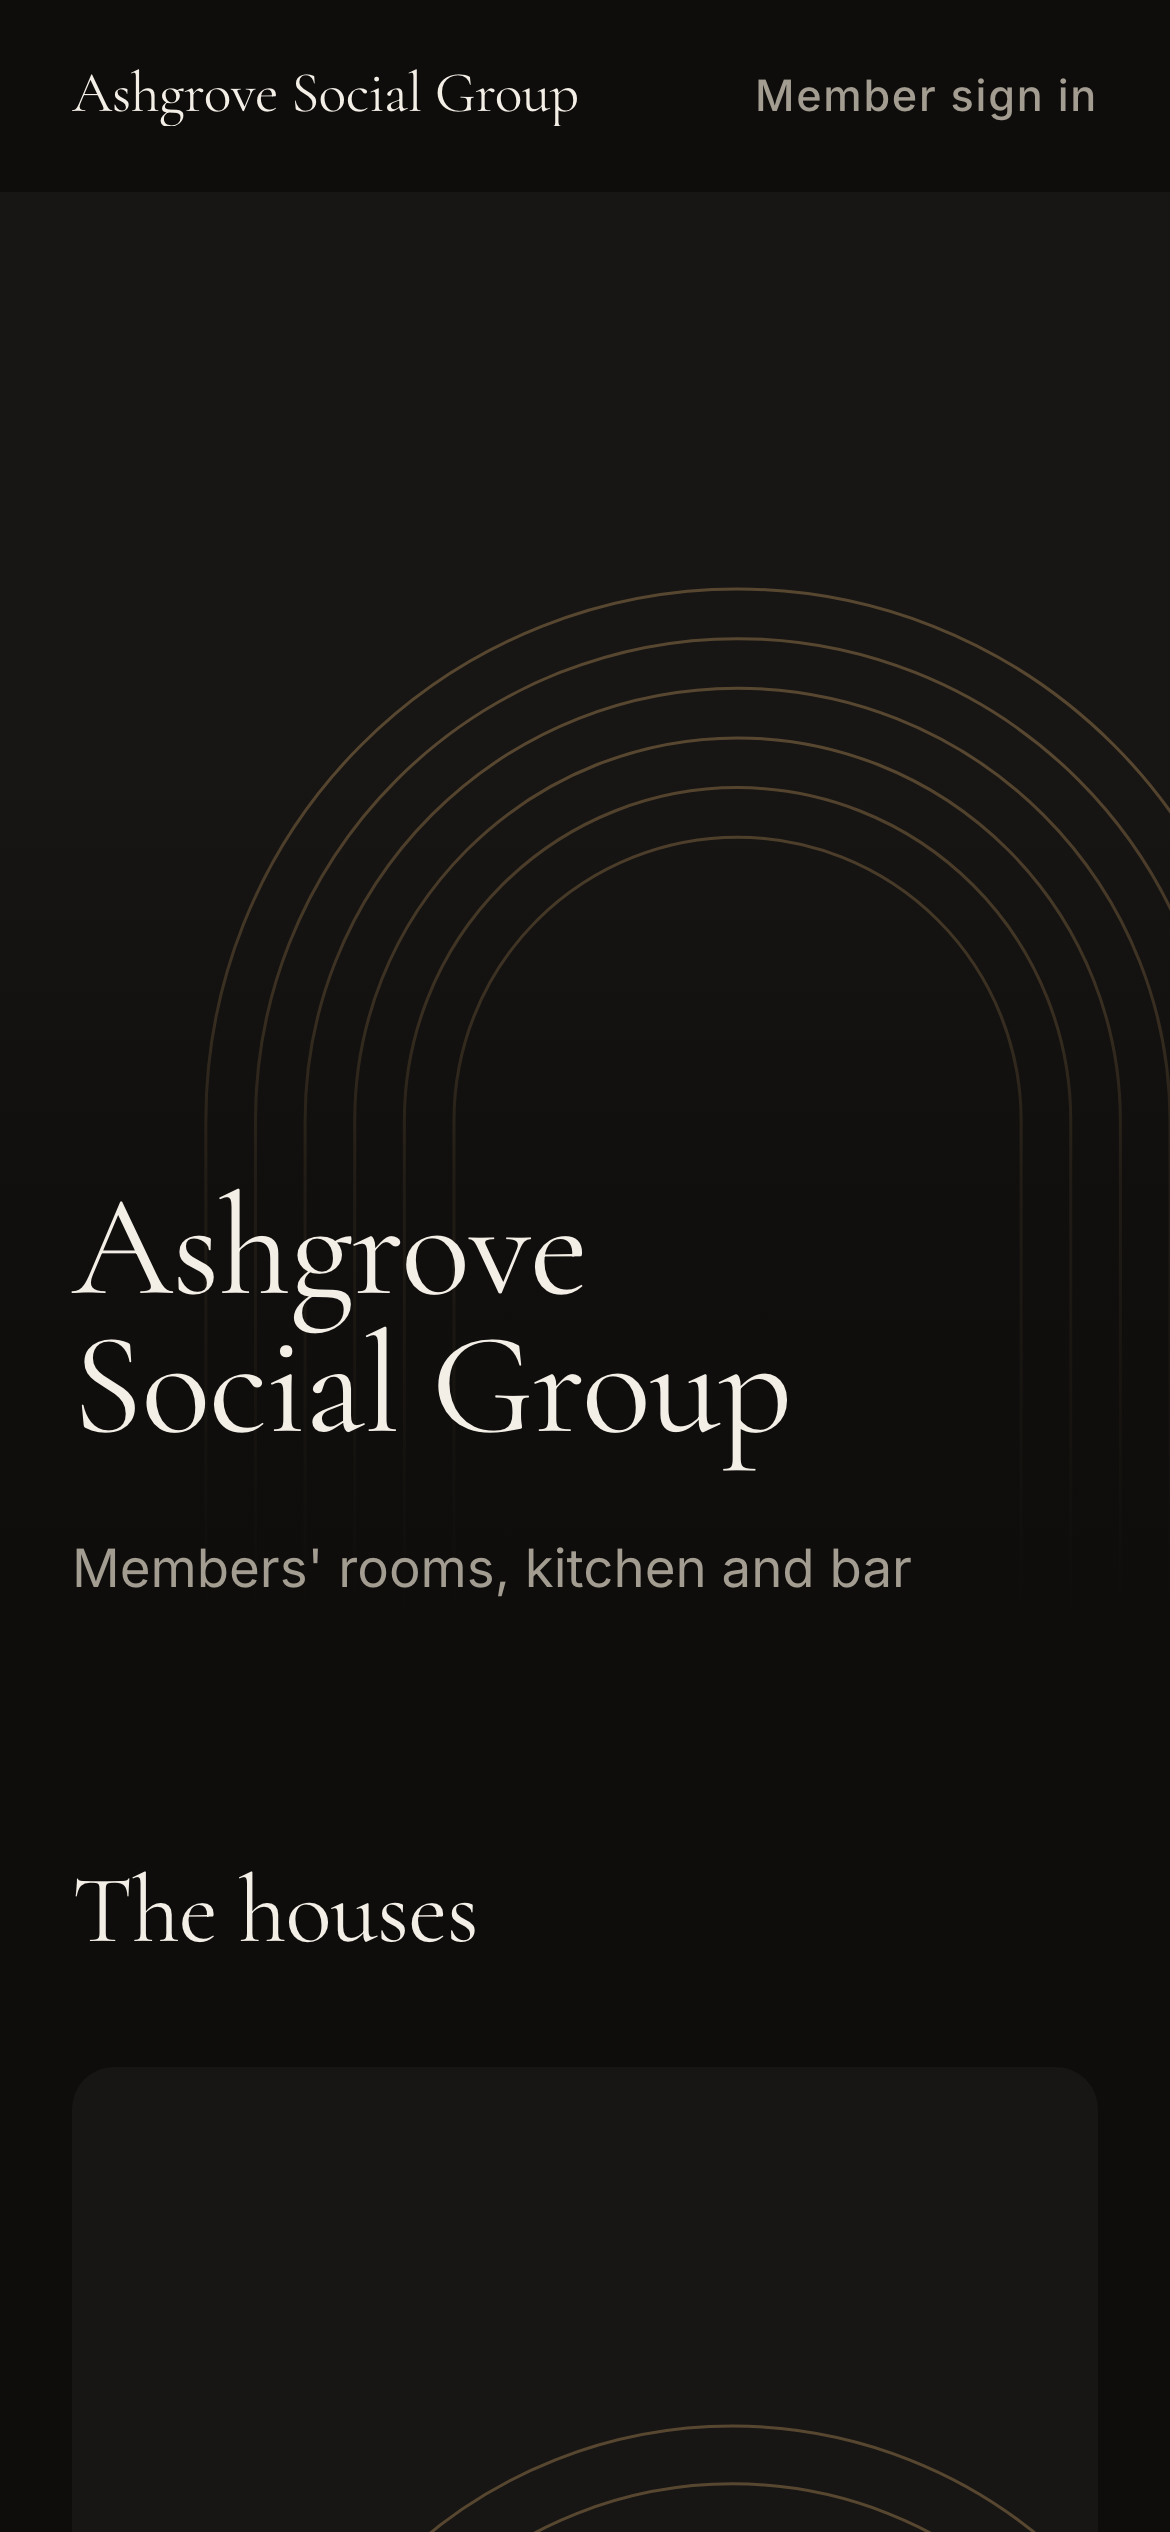
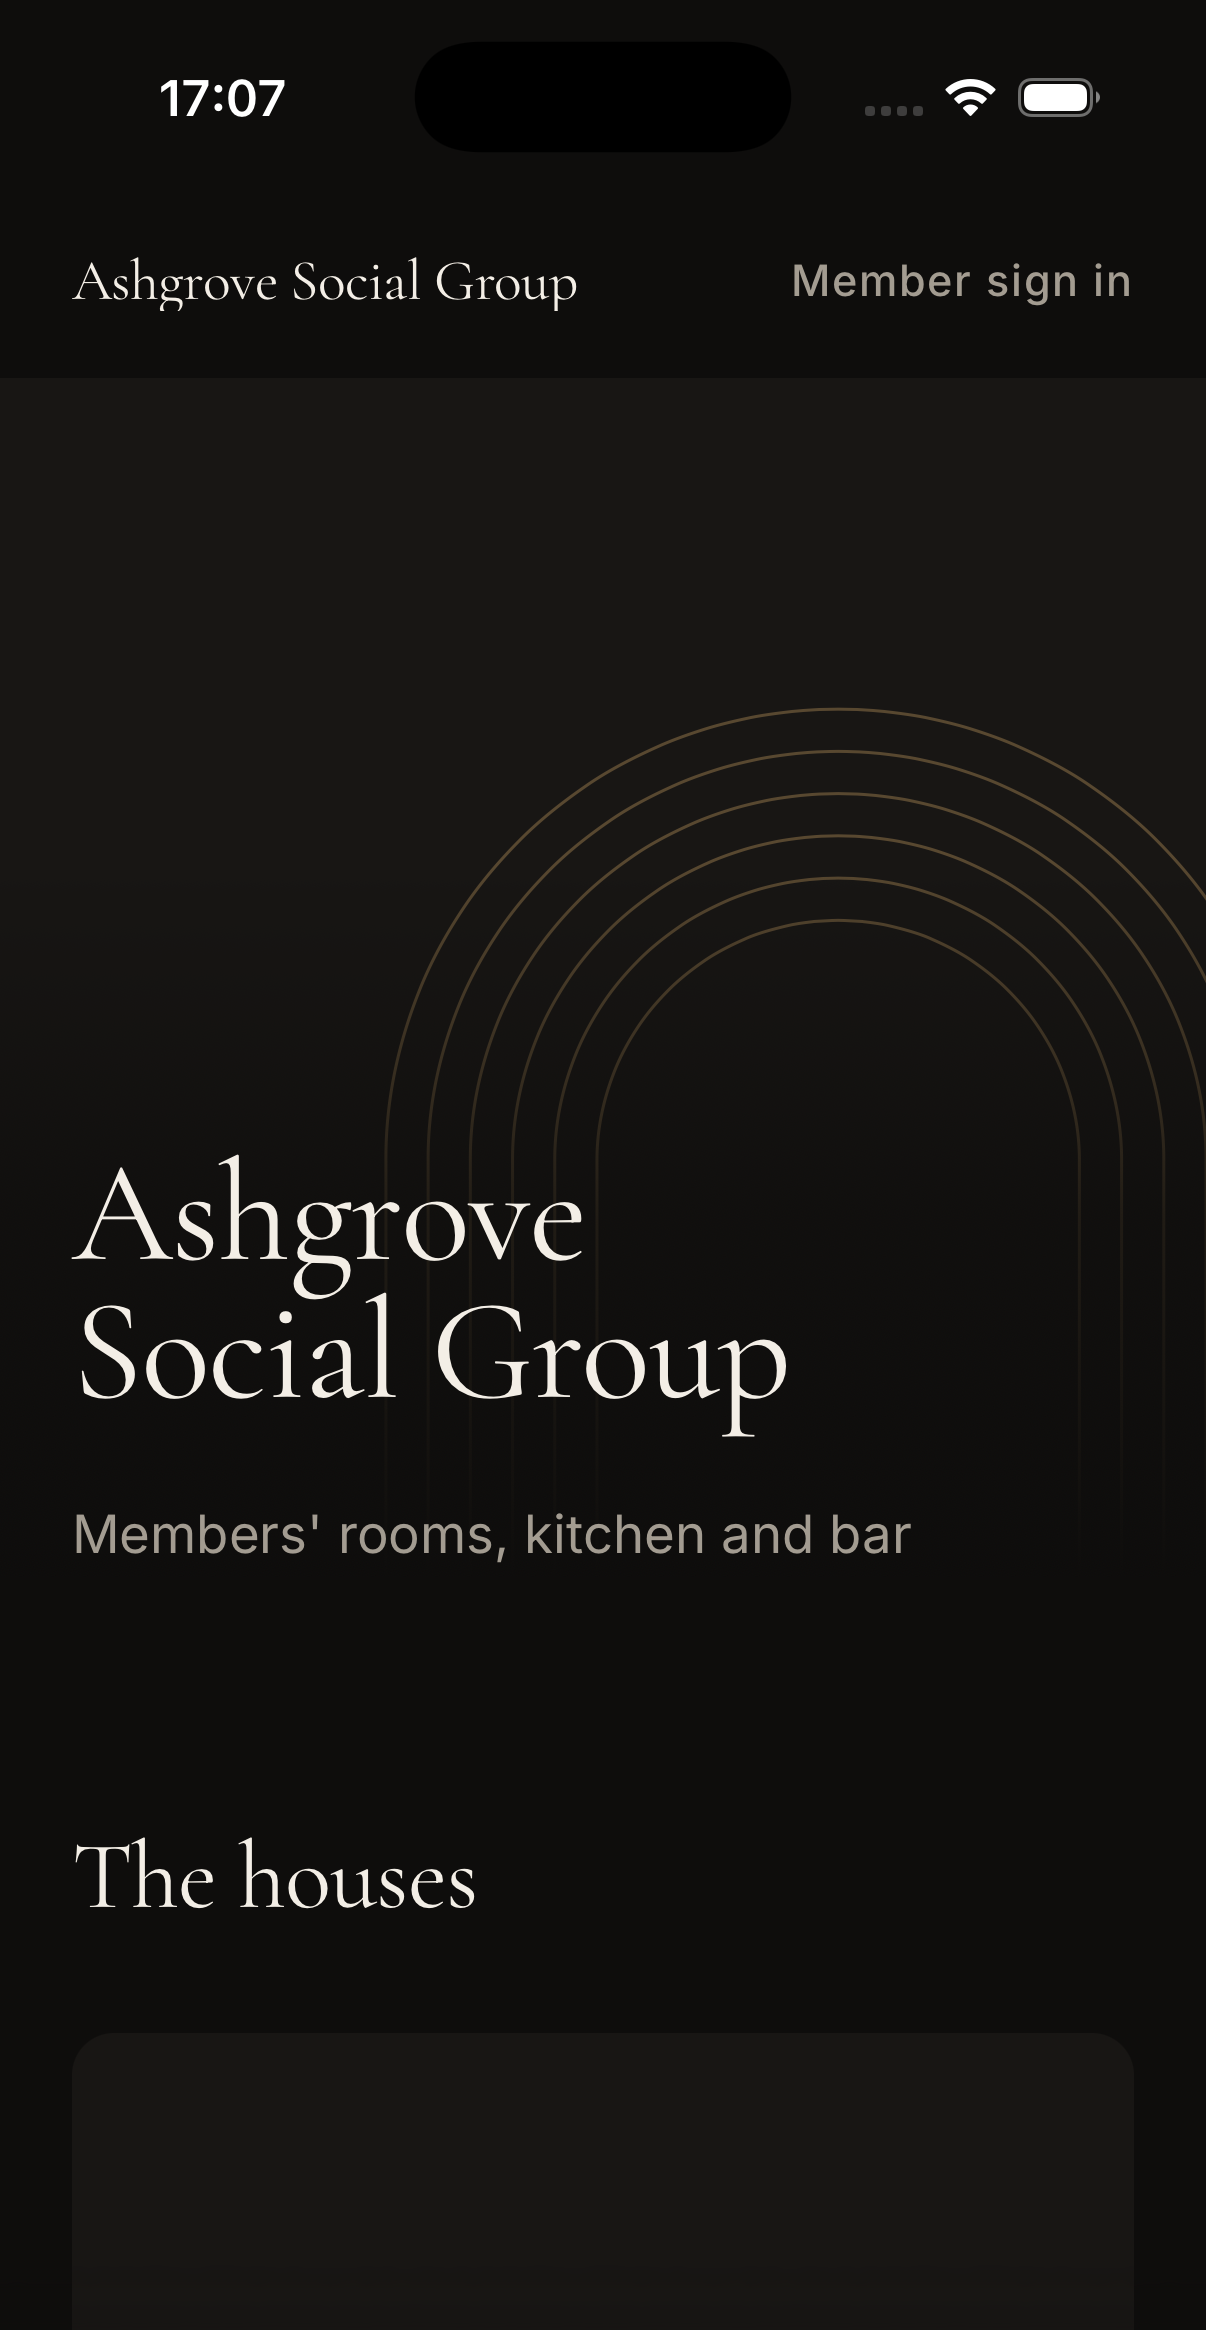
Portal phone shots from the iPhone simulator
The public page and the application form are now real iPhone 17 Pro
captures of the production members build, status bar included, with
Safari's toolbar cropped off. The sign-in screen is captured too for
later use.

diff --git a/src/app/page.tsx b/src/app/page.tsx
@@ -880,13 +880,13 @@ export default function Home() {
           <div className="mx-auto mt-14 grid max-w-5xl gap-8 sm:grid-cols-3">
             <figure>
               <Reveal>
-                <PhoneShot src="/screenshots/portal-phone-public.png" alt="synapse member portal — the club's public page before sign-in, with Apply and Member sign in" w={1170} h={2532} />
+                <PhoneShot src="/screenshots/portal-phone-public.png" alt="synapse member portal — the club's public page before sign-in, with Apply and Member sign in" w={1206} h={2330} />
               </Reveal>
               <figcaption className="mt-3 text-sm text-[var(--muted)]">Before sign-in: the club&apos;s public page, with Apply and Member sign in. Signing in is an email address and a six-digit code, no password.</figcaption>
             </figure>
             <figure>
               <Reveal delayMs={80}>
-                <PhoneShot src="/screenshots/portal-phone-apply.png" alt="synapse member portal — the application form" w={1170} h={2532} />
+                <PhoneShot src="/screenshots/portal-phone-apply.png" alt="synapse member portal — the application form" w={1206} h={2330} />
               </Reveal>
               <figcaption className="mt-3 text-sm text-[var(--muted)]">Applying: the house, then the membership and its fees, then the questions you composed. Progress is saved and resumable from a link.</figcaption>
             </figure>

diff --git a/src/app/hero-screens.tsx b/src/app/hero-screens.tsx
@@ -116,7 +116,7 @@ export function HeroScreens() {
         <div className="absolute bottom-0 left-0 w-[21%] rounded-[12px] bg-[#1c1c1e] p-[4px] shadow-[0_24px_48px_-12px_rgba(20,14,40,0.45)] ring-1 ring-black/10 sm:rounded-[18px] sm:p-[5px] lg:rounded-[20px] lg:p-[6px]">
           <div className="overflow-hidden rounded-[9px] sm:rounded-[14px] lg:rounded-[15px]">
             {/* eslint-disable-next-line @next/next/no-img-element */}
-            <img src="/screenshots/portal-phone-public.png" alt="The member portal on a phone — Ashgrove Social Group's public page, black and gold" width={1170} height={2532} className="block h-auto w-full" />
+            <img src="/screenshots/portal-phone-public.png" alt="The member portal on a phone — Ashgrove Social Group's public page, black and gold" width={1206} height={2330} className="block h-auto w-full" />
           </div>
         </div>
 
